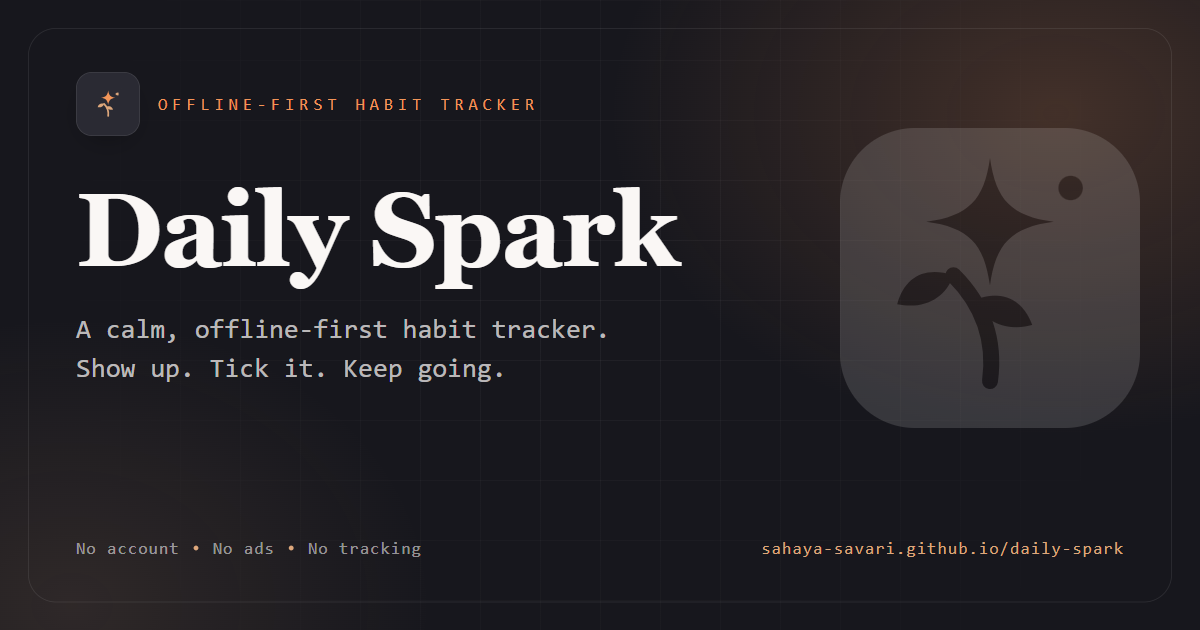
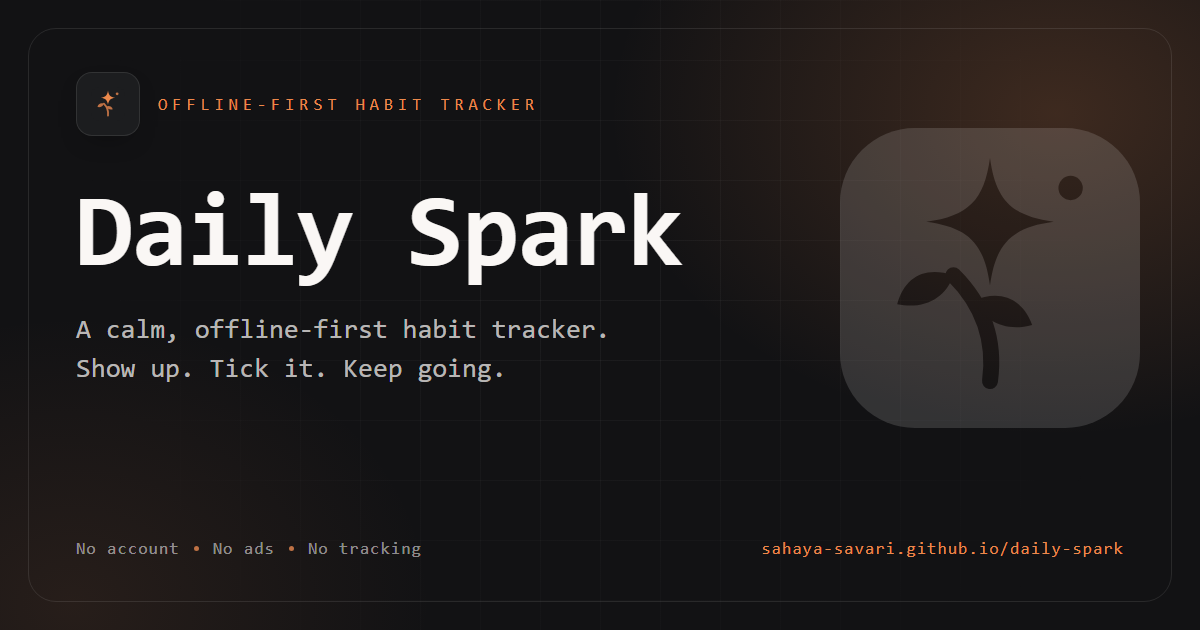
feat(og): render social preview card in Block Craft pixel font with charcoal & ember palette

diff --git a/og/og-card.html b/og/og-card.html
@@ -20,9 +20,9 @@
       * { box-sizing: border-box; margin: 0; padding: 0; }
       html, body { width: 1200px; height: 630px; }
       body {
-        background: #17171d;
+        background: #121214;
         color: #faf7f5;
-        font-family: "JetBrains Mono", Consolas, "Courier New", ui-monospace, monospace;
+        font-family: "Block Craft", monospace;
         overflow: hidden;
         position: relative;
       }
@@ -30,8 +30,8 @@
         position: absolute;
         inset: 0;
         background:
-          radial-gradient(720px 520px at 88% 18%, rgba(242, 149, 89, 0.20), transparent 62%),
-          radial-gradient(600px 480px at 6% 96%, rgba(221, 167, 123, 0.12), transparent 60%);
+          radial-gradient(720px 520px at 88% 18%, rgba(236, 137, 76, 0.20), transparent 62%),
+          radial-gradient(600px 480px at 6% 96%, rgba(191, 114, 69, 0.12), transparent 60%);
       }
       .grid {
         position: absolute;
@@ -62,7 +62,7 @@
         width: 64px;
         height: 64px;
         border-radius: 16px;
-        background: #2a2a33;
+        background: #1c1d1f;
         border: 1px solid rgba(250, 247, 245, 0.10);
         display: flex;
         align-items: center;
@@ -74,11 +74,11 @@
         font-weight: 500;
         letter-spacing: 0.28em;
         text-transform: uppercase;
-        color: #f29559;
+        color: #ec894c;
       }
       h1 {
         margin-top: 44px;
-        font-family: Arvo, Georgia, "Times New Roman", serif;
+        font-family: "Block Craft", monospace;
         font-weight: 700;
         font-size: 104px;
         line-height: 0.98;
@@ -100,8 +100,8 @@
         letter-spacing: 0.06em;
         color: rgba(250, 247, 245, 0.55);
       }
-      .dot { width: 5px; height: 5px; border-radius: 50%; background: #dda77b; }
-      .url { margin-left: auto; color: #dda77b; }
+      .dot { width: 5px; height: 5px; border-radius: 50%; background: #bf7245; }
+      .url { margin-left: auto; color: #ec894c; }
       .mark {
         position: absolute;
         right: 60px;
@@ -120,11 +120,11 @@
 
     <svg class="mark" viewBox="0 0 32 32" aria-hidden="true">
       <rect width="32" height="32" rx="8" fill="#faf7f5" />
-      <path d="M16 27c.6-4.4-.7-8.1-3.9-11.3" fill="none" stroke="#17171d" stroke-width="1.7" stroke-linecap="round" />
-      <path d="M12.1 15.7c-3.1-1-5.2.2-6 3.1 2.9.6 5.2-.7 6-3.1Z" fill="#17171d" />
-      <path d="M14.2 18.4c2.9-1.2 5.2-.3 6.3 2.6-2.8.8-5.2-.4-6.3-2.6Z" fill="#17171d" />
-      <path d="M16 3.2c.62 4.5 2.3 6.2 6.8 6.8-4.5.6-6.18 2.3-6.8 6.8-.62-4.5-2.3-6.2-6.8-6.8 4.5-.6 6.18-2.3 6.8-6.8Z" fill="#17171d" />
-      <circle cx="24.6" cy="6.4" r="1.3" fill="#17171d" />
+      <path d="M16 27c.6-4.4-.7-8.1-3.9-11.3" fill="none" stroke="#121214" stroke-width="1.7" stroke-linecap="round" />
+      <path d="M12.1 15.7c-3.1-1-5.2.2-6 3.1 2.9.6 5.2-.7 6-3.1Z" fill="#121214" />
+      <path d="M14.2 18.4c2.9-1.2 5.2-.3 6.3 2.6-2.8.8-5.2-.4-6.3-2.6Z" fill="#121214" />
+      <path d="M16 3.2c.62 4.5 2.3 6.2 6.8 6.8-4.5.6-6.18 2.3-6.8 6.8-.62-4.5-2.3-6.2-6.8-6.8 4.5-.6 6.18-2.3 6.8-6.8Z" fill="#121214" />
+      <circle cx="24.6" cy="6.4" r="1.3" fill="#121214" />
     </svg>
 
     <div class="card">
@@ -132,12 +132,12 @@
         <div class="top">
           <div class="badge">
             <svg width="34" height="34" viewBox="0 0 32 32" aria-hidden="true">
-              <rect width="32" height="32" rx="8" fill="#2a2a33" />
-              <path d="M16 27c.6-4.4-.7-8.1-3.9-11.3" fill="none" stroke="#dda77b" stroke-width="1.7" stroke-linecap="round" />
-              <path d="M12.1 15.7c-3.1-1-5.2.2-6 3.1 2.9.6 5.2-.7 6-3.1Z" fill="#dda77b" />
-              <path d="M14.2 18.4c2.9-1.2 5.2-.3 6.3 2.6-2.8.8-5.2-.4-6.3-2.6Z" fill="#dda77b" />
-              <path d="M16 3.2c.62 4.5 2.3 6.2 6.8 6.8-4.5.6-6.18 2.3-6.8 6.8-.62-4.5-2.3-6.2-6.8-6.8 4.5-.6 6.18-2.3 6.8-6.8Z" fill="#f29559" />
-              <circle cx="24.6" cy="6.4" r="1.3" fill="#dda77b" />
+              <rect width="32" height="32" rx="8" fill="#1c1d1f" />
+              <path d="M16 27c.6-4.4-.7-8.1-3.9-11.3" fill="none" stroke="#bf7245" stroke-width="1.7" stroke-linecap="round" />
+              <path d="M12.1 15.7c-3.1-1-5.2.2-6 3.1 2.9.6 5.2-.7 6-3.1Z" fill="#bf7245" />
+              <path d="M14.2 18.4c2.9-1.2 5.2-.3 6.3 2.6-2.8.8-5.2-.4-6.3-2.6Z" fill="#bf7245" />
+              <path d="M16 3.2c.62 4.5 2.3 6.2 6.8 6.8-4.5.6-6.18 2.3-6.8 6.8-.62-4.5-2.3-6.2-6.8-6.8 4.5-.6 6.18-2.3 6.8-6.8Z" fill="#ec894c" />
+              <circle cx="24.6" cy="6.4" r="1.3" fill="#bf7245" />
             </svg>
           </div>
           <div class="eyebrow">Offline-first habit tracker</div>
